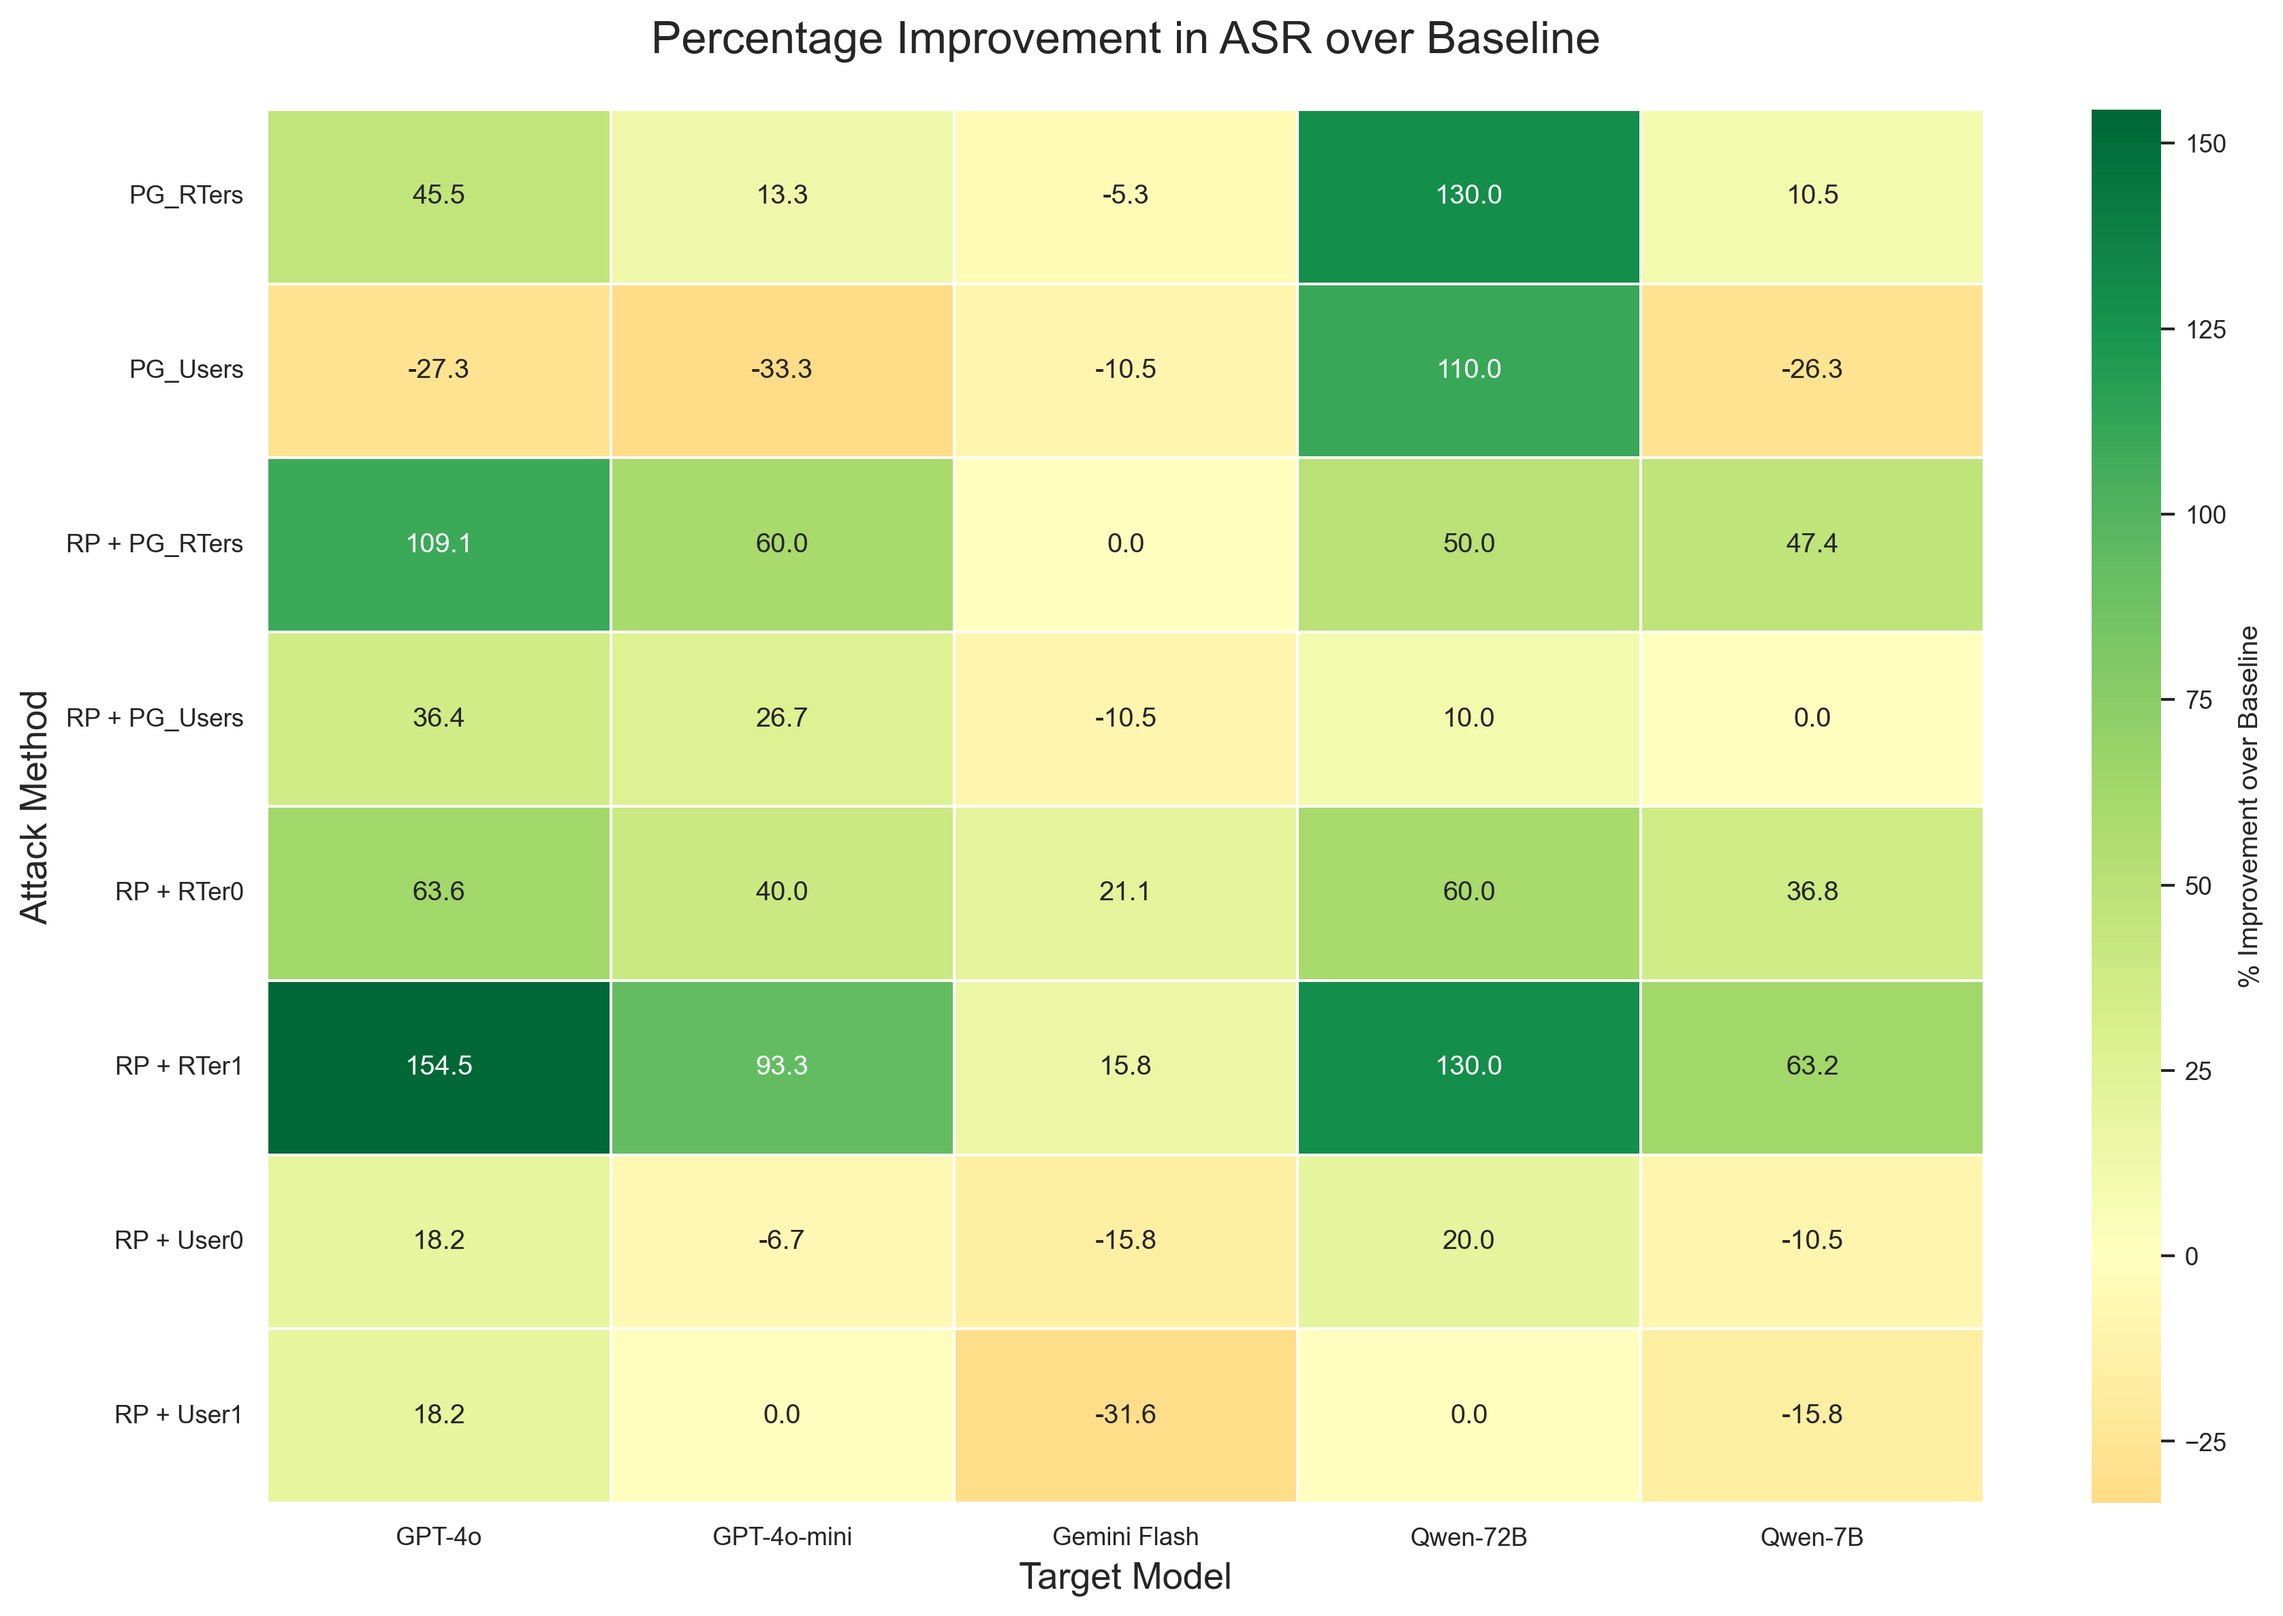
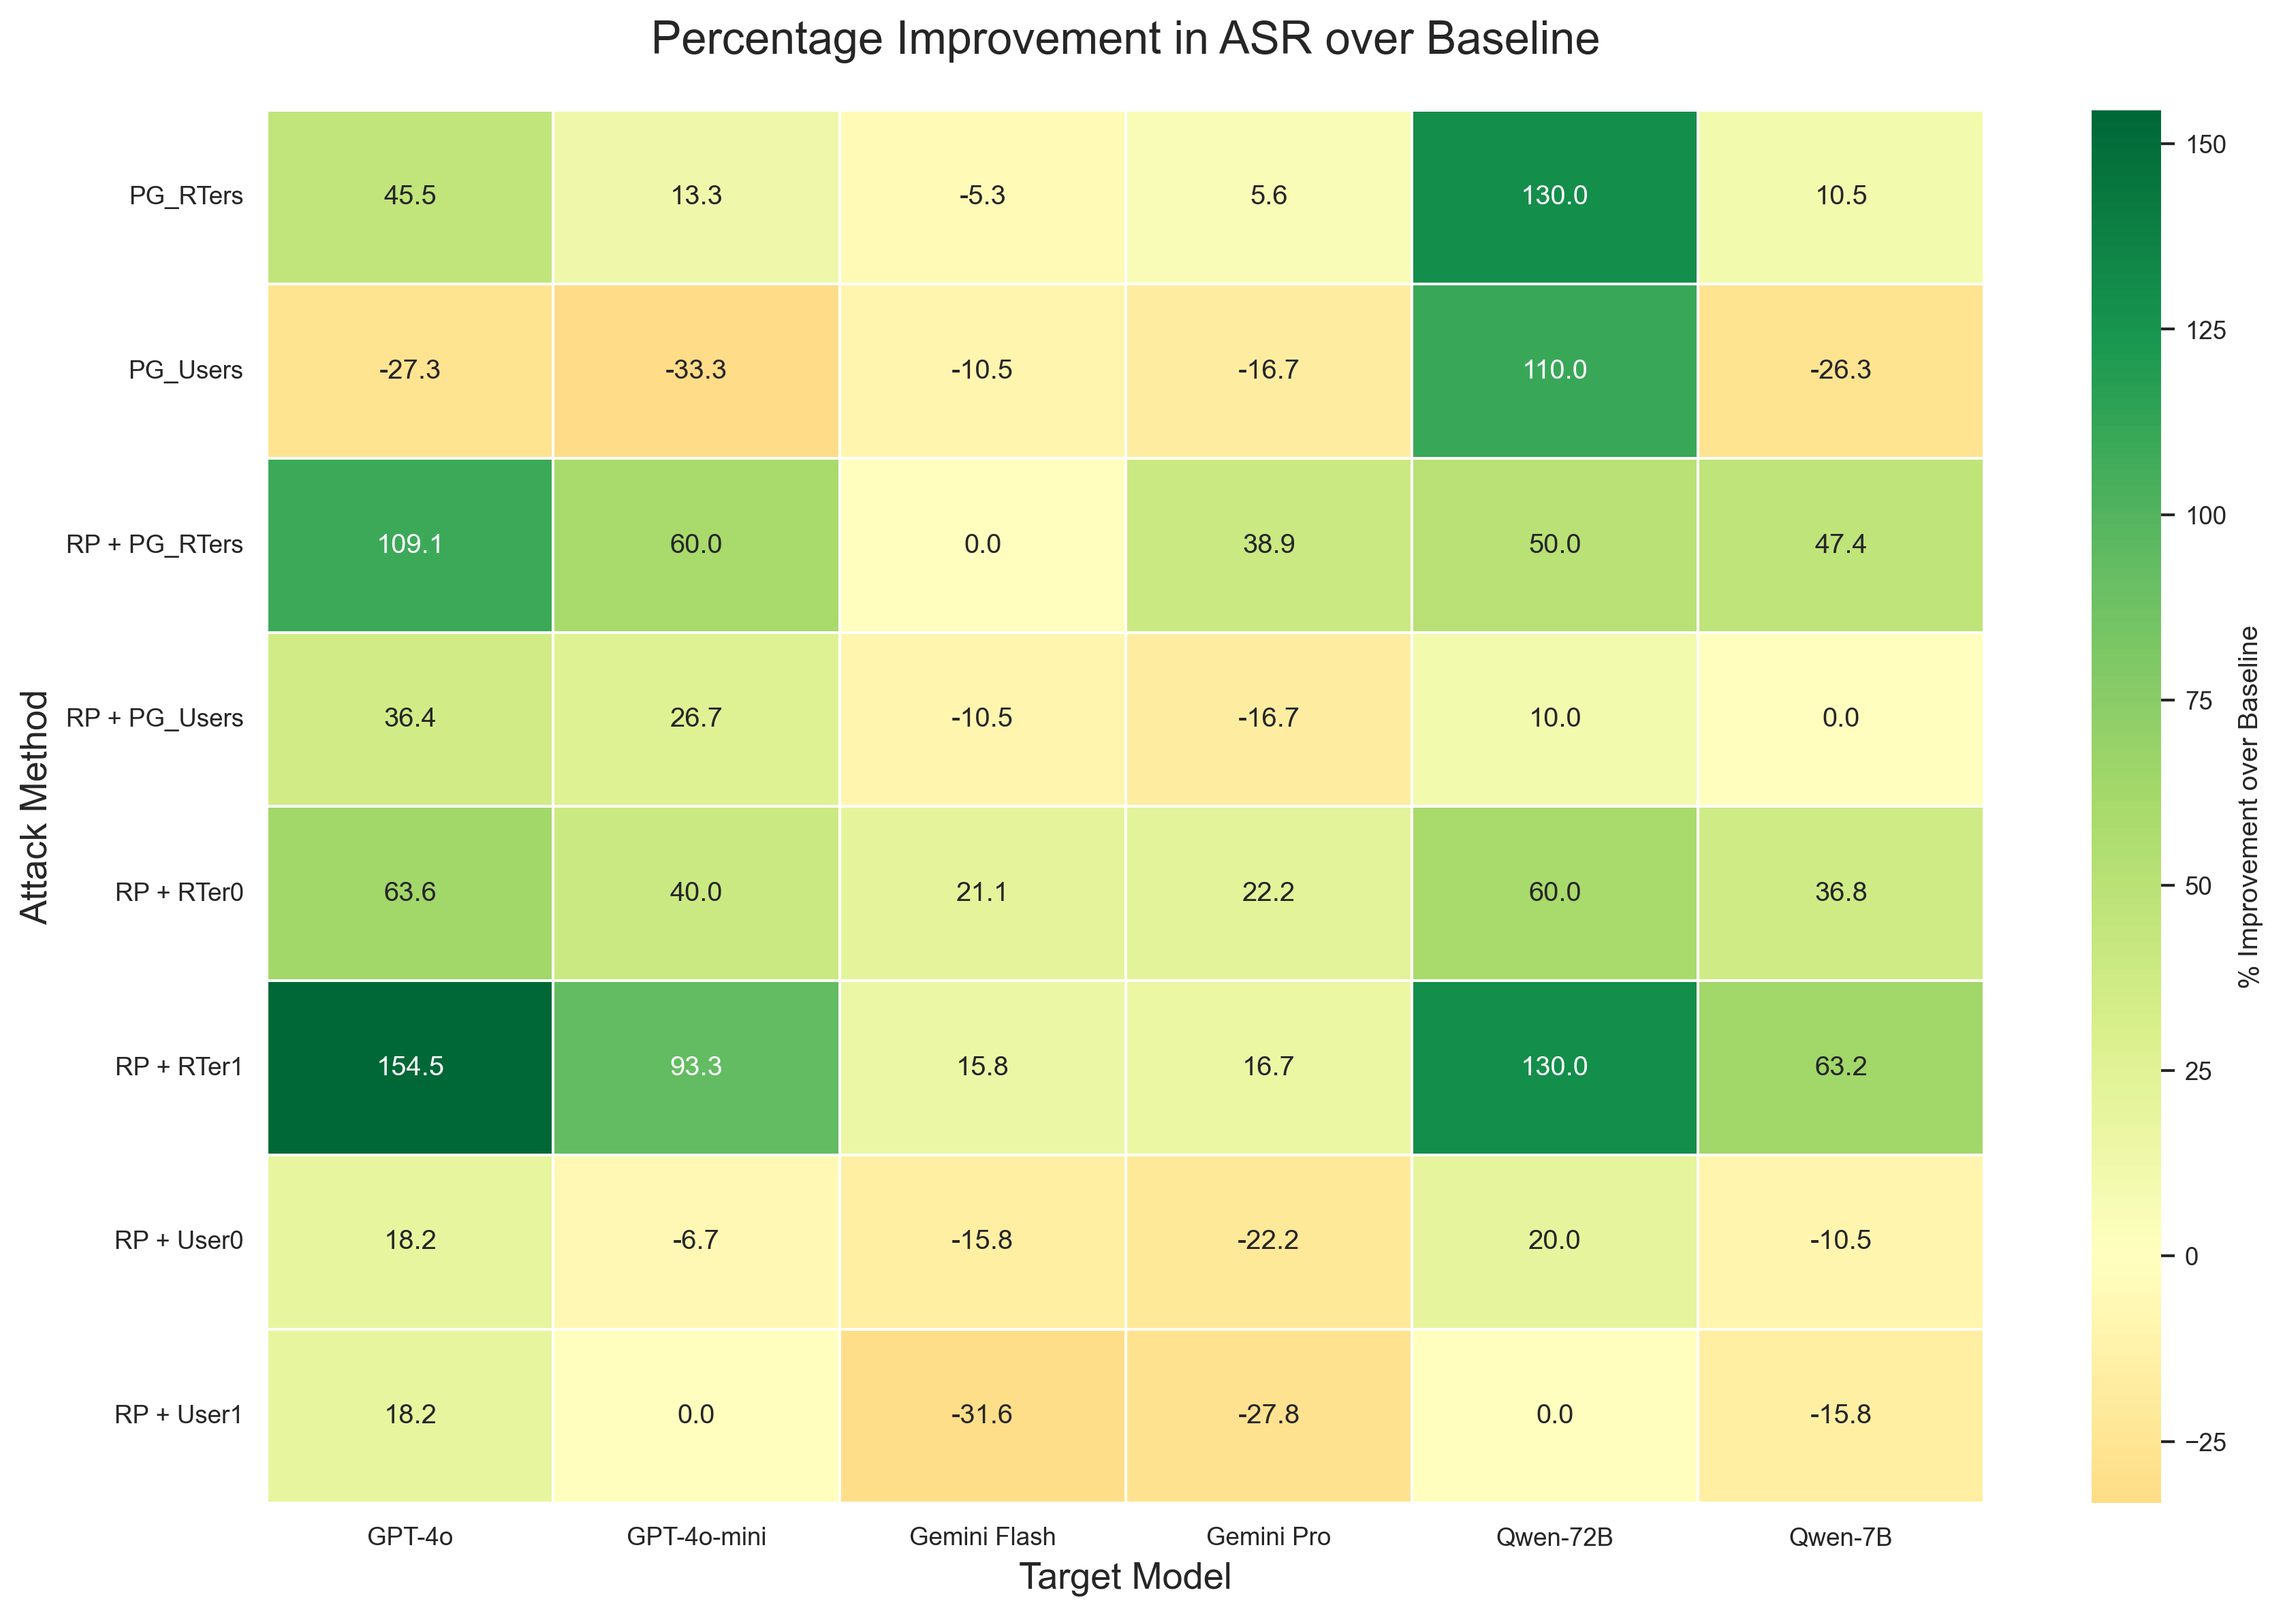
add: gemini pro results and mean performance graph

diff --git a/analyze_final_result.py b/analyze_final_result.py
@@ -23,6 +23,7 @@ TARGET MODELS:
 - GPT-4o-mini
 - Qwen2.5-72B (Qwen-72B)
 - Gemini 2.5 Flash
+- Gemini 2.5 Pro
 
 METRICS:
 - ASR (Attack Success Rate): Percentage of successful jailbreak attempts
@@ -30,16 +31,17 @@ METRICS:
 - Dist_Seed: Distance from original seed prompts (novelty measure)
 
 OUTPUTS:
-This script generates 12 high-resolution visualizations in the
+This script generates high-resolution visualizations in the
 'final results comparison/' directory:
 01. ASR vs Diversity trade-off scatter plot
 02. Improvement heatmap (% change from baseline)
 03. Grouped bar chart of ASR across models
 04. RTer vs User 4-panel comparison
 05. Three metrics progression line plots
-06. Per-model detailed rankings (5 separate charts)
+06. Per-model detailed rankings (6 separate charts)
 07. Distance from seed analysis
 08. Summary statistics table
+09. Overall method performance (averaged across all models)
 
 All visualizations are saved at 300 DPI for publication quality.
 
@@ -114,6 +116,17 @@ data = [
     {'Model': 'Gemini Flash', 'Method': 'RP + PG_Users', 'ASR': 0.17, 'Diversity': 0.64, 'Dist_Seed': 1.75},
     {'Model': 'Gemini Flash', 'Method': 'PG_RTers',      'ASR': 0.18, 'Diversity': 0.48, 'Dist_Seed': 1.71},
     {'Model': 'Gemini Flash', 'Method': 'PG_Users',      'ASR': 0.17, 'Diversity': 0.64, 'Dist_Seed': 1.00},
+
+    # --- Table 8: Gemini 2.5 Pro ---
+    {'Model': 'Gemini Pro', 'Method': 'RP (Baseline)', 'ASR': 0.18, 'Diversity': 0.58, 'Dist_Seed': 1.67},
+    {'Model': 'Gemini Pro', 'Method': 'RP + RTer0',    'ASR': 0.22, 'Diversity': 0.59, 'Dist_Seed': 1.55},
+    {'Model': 'Gemini Pro', 'Method': 'RP + RTer1',    'ASR': 0.21, 'Diversity': 0.56, 'Dist_Seed': 1.64},
+    {'Model': 'Gemini Pro', 'Method': 'RP + User0',    'ASR': 0.14, 'Diversity': 0.54, 'Dist_Seed': 1.60},
+    {'Model': 'Gemini Pro', 'Method': 'RP + User1',    'ASR': 0.13, 'Diversity': 0.62, 'Dist_Seed': 1.65},
+    {'Model': 'Gemini Pro', 'Method': 'RP + PG_RTers', 'ASR': 0.25, 'Diversity': 0.61, 'Dist_Seed': 1.73},
+    {'Model': 'Gemini Pro', 'Method': 'RP + PG_Users', 'ASR': 0.15, 'Diversity': 0.60, 'Dist_Seed': 1.77},
+    {'Model': 'Gemini Pro', 'Method': 'PG_RTers',      'ASR': 0.19, 'Diversity': 0.45, 'Dist_Seed': 1.62},
+    {'Model': 'Gemini Pro', 'Method': 'PG_Users',      'ASR': 0.15, 'Diversity': 0.60, 'Dist_Seed': 0.94},
 ]
 
 df = pd.DataFrame(data)
@@ -552,6 +565,79 @@ for i in range(len(summary_data)):
 plt.title('Summary Statistics: Mean and Standard Deviation Across Models',
          fontsize=16, pad=20, y=0.98)
 plt.savefig(output_dir / '08_summary_statistics.png', dpi=300, bbox_inches='tight')
+plt.close()
+
+# ---------------------------------------------------------
+# VISUALIZATION 9: Overall Method Performance (Averaged Across All Models)
+# ---------------------------------------------------------
+# PURPOSE: This scatter plot shows each method's overall performance averaged
+# across all 6 target models. Each point represents one experimental condition
+# (method), with coordinates being the mean ASR and mean Diversity across models.
+#
+# INSIGHTS TO LOOK FOR:
+# - Which methods achieve the best balance of high ASR and high Diversity?
+# - Do RTer methods cluster in a different region than User methods?
+# - Is there a clear Pareto frontier of optimal methods?
+# - How do generated personas (PG) compare to predefined personas overall?
+# ---------------------------------------------------------
+fig, ax = plt.subplots(figsize=(12, 9))
+
+# Calculate mean ASR and Diversity for each method across all models
+method_means = df.groupby('Method').agg({
+    'ASR': 'mean',
+    'Diversity': 'mean'
+}).reset_index()
+
+# Define markers and colors for each method
+markers = ['o', 's', '^', 'D', 'v', 'p', 'h', '*', 'X']
+colors = {
+    'RP (Baseline)': '#7f7f7f',  # Gray
+    'RP + RTer0': '#d62728',      # Red
+    'RP + RTer1': '#ff7f0e',      # Orange
+    'RP + User0': '#1f77b4',      # Blue
+    'RP + User1': '#17becf',      # Cyan
+    'RP + PG_RTers': '#e377c2',   # Pink
+    'RP + PG_Users': '#2ca02c',   # Green
+    'PG_RTers': '#9467bd',        # Purple
+    'PG_Users': '#8c564b',        # Brown
+}
+
+# Plot each method as a distinct point
+for i, (_, row) in enumerate(method_means.iterrows()):
+    method = row['Method']
+    ax.scatter(row['Diversity'], row['ASR'],
+              s=300,
+              marker=markers[i % len(markers)],
+              c=colors.get(method, '#333333'),
+              label=method,
+              edgecolors='black',
+              linewidths=1.5,
+              alpha=0.85,
+              zorder=3)
+
+# Add labels next to each point
+for _, row in method_means.iterrows():
+    ax.annotate(row['Method'],
+               (row['Diversity'], row['ASR']),
+               xytext=(8, 5),
+               textcoords='offset points',
+               fontsize=9,
+               alpha=0.8)
+
+ax.set_title('Overall Method Performance (Averaged Across 6 Models)', fontsize=16, pad=20)
+ax.set_xlabel('Mean Diversity Score', fontsize=13)
+ax.set_ylabel('Mean Attack Success Rate (ASR)', fontsize=13)
+ax.legend(bbox_to_anchor=(1.05, 1), loc='upper left', fontsize=10)
+ax.grid(True, alpha=0.3, zorder=1)
+
+# Add quadrant lines at median values for reference
+median_div = method_means['Diversity'].median()
+median_asr = method_means['ASR'].median()
+ax.axhline(y=median_asr, color='gray', linestyle='--', alpha=0.5, zorder=2)
+ax.axvline(x=median_div, color='gray', linestyle='--', alpha=0.5, zorder=2)
+
+plt.tight_layout()
+plt.savefig(output_dir / '09_overall_method_performance.png', dpi=300, bbox_inches='tight')
 plt.close()
 
 print(f"\nAll visualizations saved to '{output_dir}' directory!")
